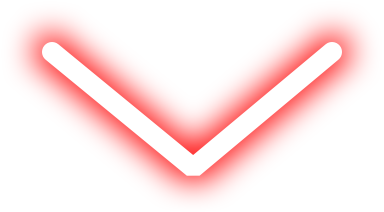
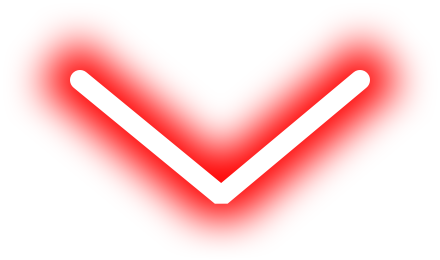
first screen is done

Changed region(s): [[0.0625, 0.1132, 0.9375, 0.8491]]

diff --git a/styles/layout.css b/styles/layout.css
@@ -62,21 +62,22 @@ header {
   position: absolute;
   bottom: 2.5em;
 
-  width: 93px;
-  height: 50px;
+  width: 73px;
+  height: 55px;
 
   background-image: url('../images/arrow_down.png');
   background-repeat: no-repeat;
+  background-position: center;
   background-size: contain;
 }
 
 .arrow_down:hover {
-  width: 96px;
-  height: 53px;
+  width: 105px;
+  height: 58px;
 
   background-image: url('../images/arrow_down2.png');
   background-repeat: no-repeat;
-  background-size: contain;
+  background-size: cover;
 }
 
 #arrowpath:hover {
